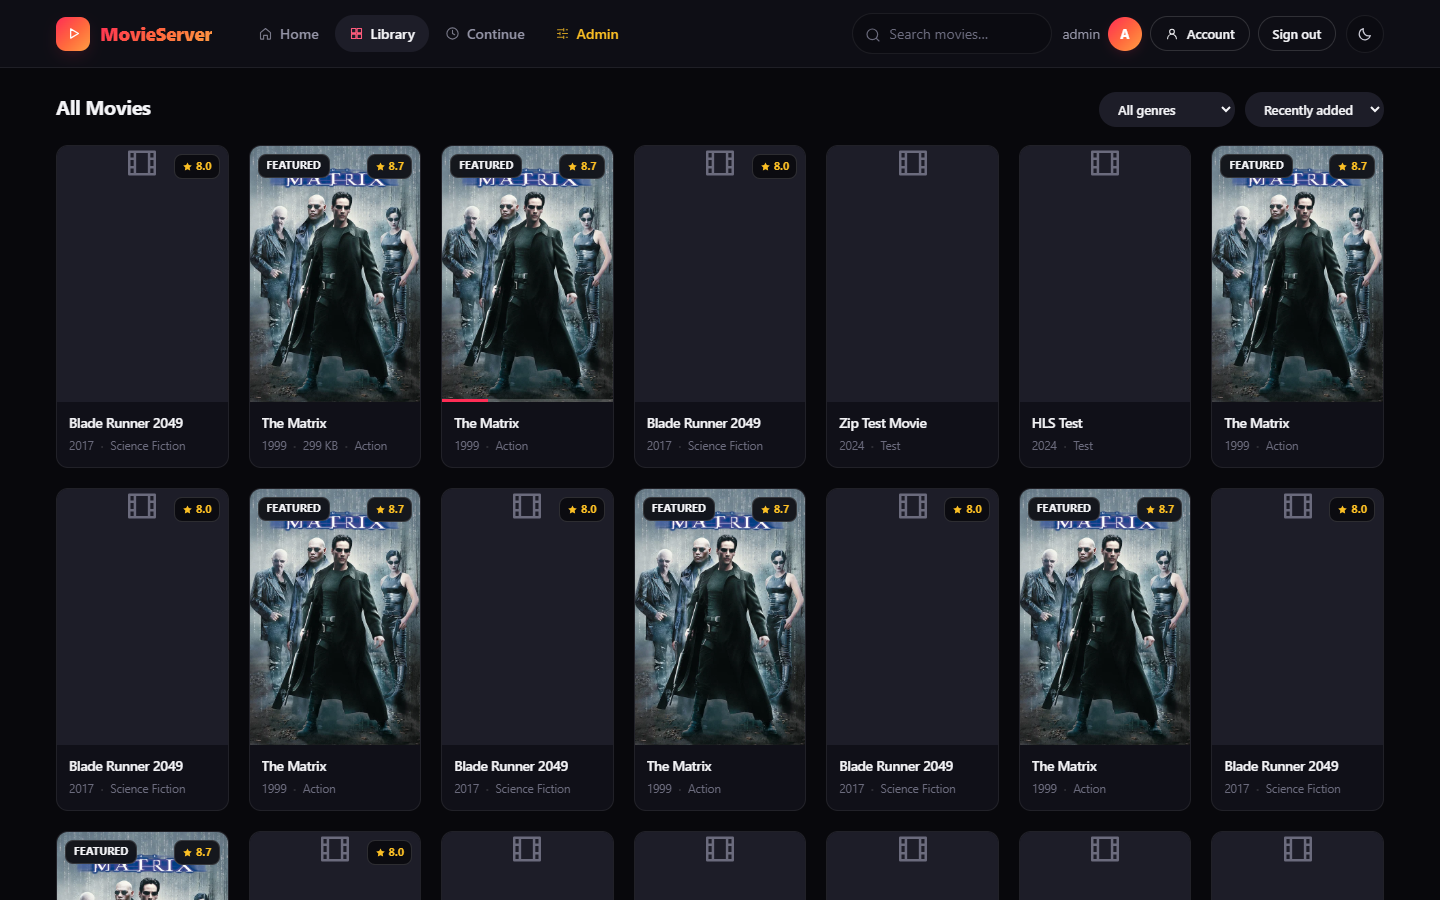
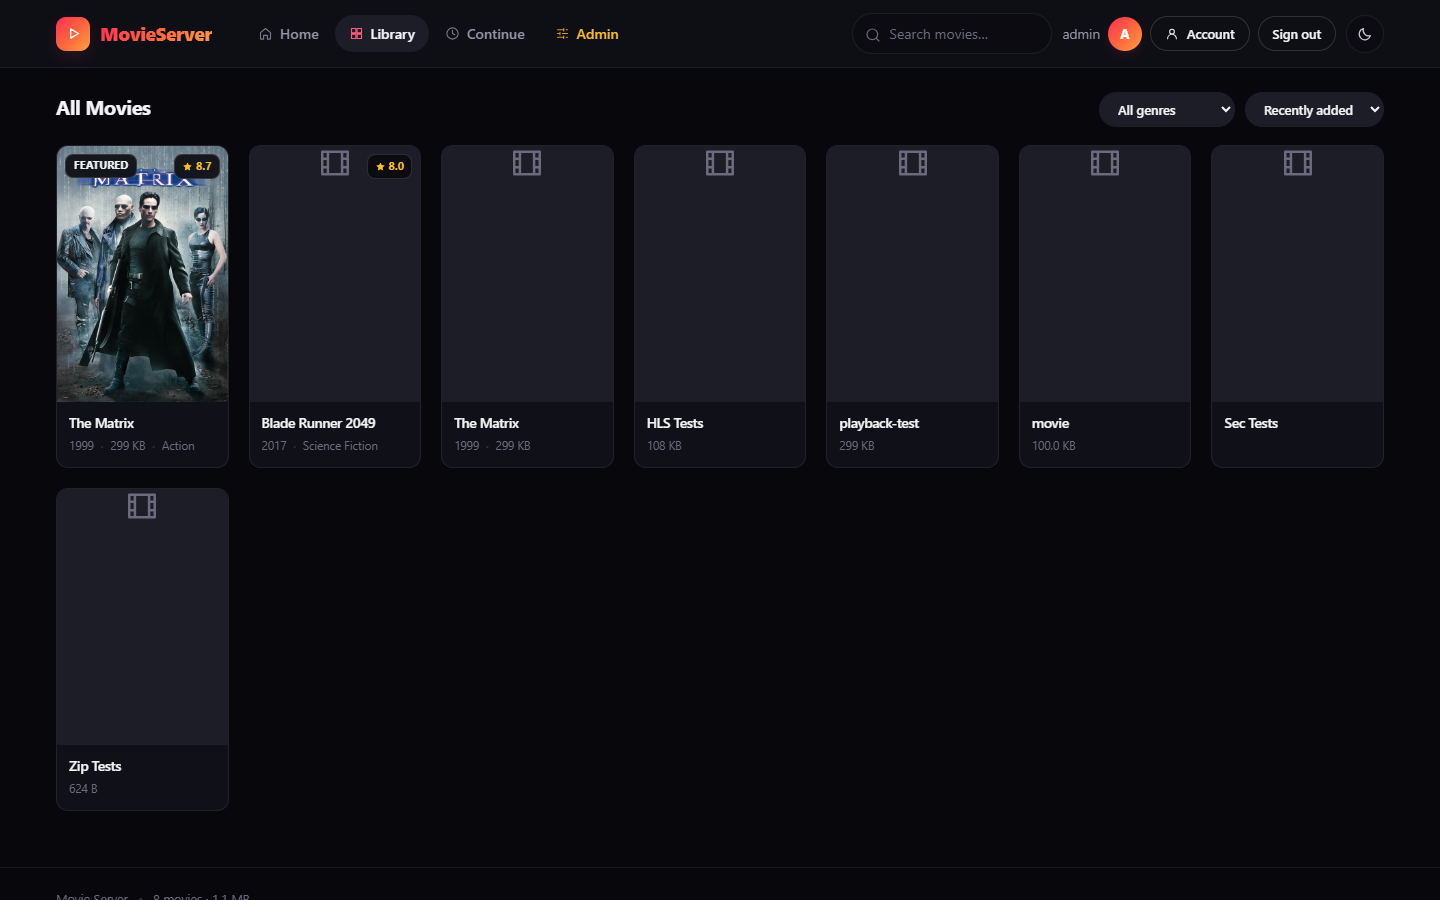
1

diff --git a/scripts/reset-library.js b/scripts/reset-library.js
@@ -1,0 +1,28 @@
+// Remove leftover test data so a fresh run starts clean.
+const BASE = process.env.BASE || 'http://127.0.0.1:3000';
+
+const login = await (await fetch(`${BASE}/api/auth/login`, {
+  method: 'POST',
+  headers: { 'content-type': 'application/json' },
+  body: JSON.stringify({ username: 'admin', password: 'admin123' }),
+})).json();
+if (!login.token) {
+  console.error('Could not log in.');
+  process.exit(1);
+}
+const h = { authorization: `Bearer ${login.token}` };
+
+const movies = await (await fetch(`${BASE}/api/movies?limit=500`, { headers: h })).json();
+for (const m of movies.movies || []) {
+  await fetch(`${BASE}/api/movies/${m.id}`, { method: 'DELETE', headers: h });
+  console.log('removed movie:', m.title);
+}
+
+const providers = await (await fetch(`${BASE}/api/admin/providers`, { headers: h })).json();
+for (const p of providers.providers || []) {
+  if (!['local', 'r2', 'gdrive', 'mega', 'telegram'].includes(p.id)) {
+    await fetch(`${BASE}/api/admin/providers/${p.id}`, { method: 'DELETE', headers: h });
+    console.log('removed provider:', p.id);
+  }
+}
+console.log('done');

diff --git a/scripts/test-ui.js b/scripts/test-ui.js
@@ -213,6 +213,14 @@ async function main() {
   check('modal shows title', (await page.locator('.modal__title').innerText()).includes('Matrix'));
   check('modal lists sources', (await page.locator('.source-item').count()) > 0);
   check('modal has download button', await page.locator('.modal a.btn:has-text("Download")').first().isVisible());
+
+  // The modal must be opaque — the library must not show through it.
+  await page.waitForTimeout(400);
+  const modalBg = await page.locator('.modal').evaluate(
+    (el) => getComputedStyle(el).backgroundColor,
+  );
+  check('the modal is opaque', !/rgba\([^)]*,\s*0?\.\d+\)/.test(modalBg), modalBg);
+
   await page.screenshot({ path: path.join(SHOTS, '04-detail.png') });
 
   await page.keyboard.press('Escape');
